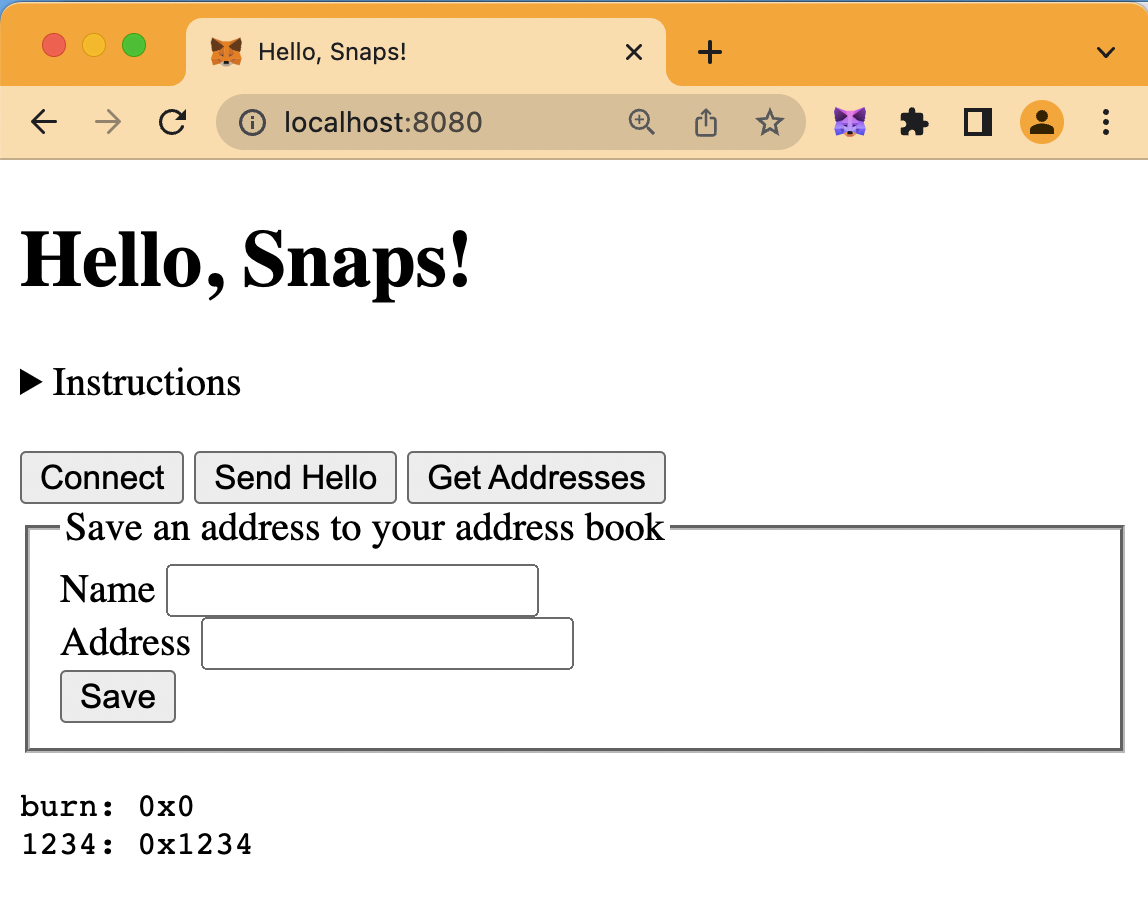
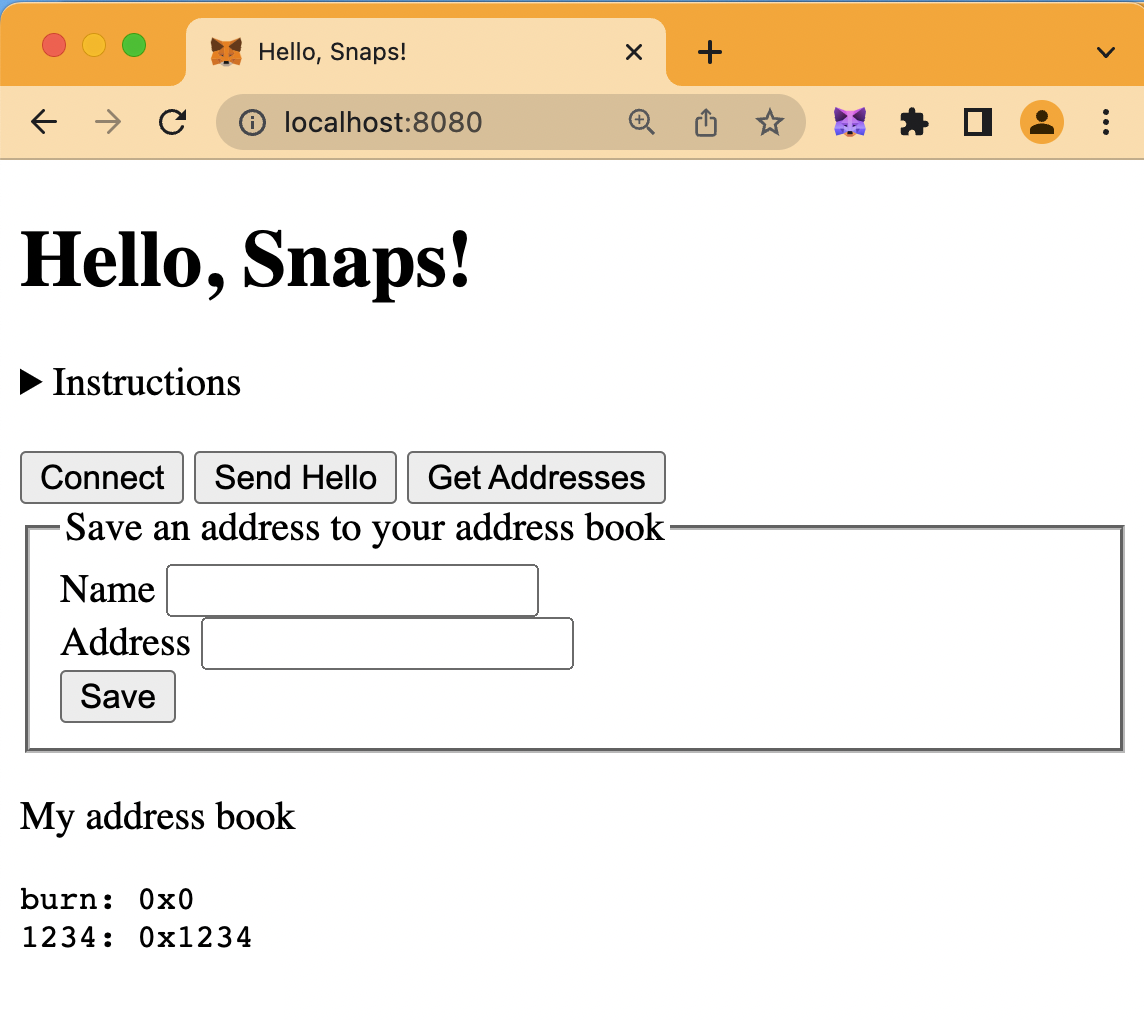
Better address display

diff --git a/index.html b/index.html
@@ -38,6 +38,11 @@
         <input type="submit" id="storeAddress" value="Save">
       </fieldset>
     </form>
+
+    <div>
+      <p>My address book</p>
+      <pre id="addressBook"></pre>
+    </div>
   </body>
 
   <script>
@@ -59,6 +64,7 @@
           wallet_snap: { [snapId]: {} },
         }]
       })
+      getAddresses()
     }
 
     // here we call the snap's "hello" method
@@ -89,11 +95,9 @@
         console.error(err)
         alert('Problem happened: ' + err.message || err)
       }
-      let container = document.createElement('pre'); 
-      container.textContent = ''+response.map(function(item){
+      document.getElementById('addressBook').textContent = ''+response.map(function(item){
           return `${item.name}: ${item.address}`; 
         }).join("\n"); 
-      document.body.append(container); 
     }
 
     const storeAddressForm = document.getElementById('storeAddress')
@@ -114,6 +118,7 @@
             addressToStore: address
           }]
         })
+        getAddresses()
       } catch (err) { 
         console.error(err)
         alert('Problem happened: ' + err.message || err)

diff --git a/src/index.js b/src/index.js
@@ -24,7 +24,7 @@ wallet.registerRpcMessageHandler(async (originString, requestObject) => {
         method: 'snap_manageState', 
         params: ['update', state], 
       }); 
-      return wallet.request({
+      /*return wallet.request({
         method: 'snap_confirm', 
         params: [
           {
@@ -37,7 +37,8 @@ wallet.registerRpcMessageHandler(async (originString, requestObject) => {
               `Addresses in book: ${state.book.length}`,  
           }, 
         ], 
-      }); 
+      });*/
+      return true; 
     case 'retrieveAddresses': 
       return state.book; 
     case 'hello':

diff --git a/README.md b/README.md
@@ -225,7 +225,7 @@ default:
 
 This code does a quick string conversion of the address book object (`map` each object in the array, then `join` the array) and outputs that in the `textAreaContent` field of the confirmation window. Build the Snap, connect to the Dapp, and click the "Send Hello" button to see the result: 
 
-<img src="tutorial-assets/tutorial-show-addresses.png" width="362" height="284" alt="Third Confirmation Attempt">
+<img src="tutorial-assets/tutorial-show-addresses.png" width="362" height="284" alt="See addresses in confirmation">
 
 Note that you did not need to add addresses to the address book again before showing the addresses that are stored. The addresses you added earlier were persisted even after updating the Snap! The data was fetched with this code which you added earlier in this tutorial: 
 
@@ -261,7 +261,19 @@ Add a button to `index.html` to retrieve addresses:
 <form id="storeAddress">
 ```
 
-And add the following code to the script section of `index.html` to retrieve and display the address book inside the Dapp: 
+And add a container before the closing `body` tag to display the address book: 
+
+```HTML
+  </form>
+
+  <div>
+    <p>My address book</p>
+    <pre id="addressBook"></pre>
+  </div>
+</body>
+```
+
+Add the following code to the script section of `index.html` to retrieve and display the address book inside the Dapp: 
 
 ```JavaScript
 const connectButton = document.querySelector('button.connect')
@@ -287,18 +299,85 @@ async function getAddresses () {
     console.error(err)
     alert('Problem happened: ' + err.message || err)
   }
-  let container = document.createElement('pre'); 
-  container.textContent = ''+response.map(function(item){
+  document.getElementById('addressBook').textContent = ''+response.map(function(item){
       return `${item.name}: ${item.address}`; 
     }).join("\n"); 
-  document.body.append(container); 
 }
 ```
 
 This is very similar to the other button handlers, but instead of just invoking a Snap request, it captures the response from that request and then injects it into the Dapp webpage. Build and run the Snap again, refresh the Dapp page, click "Connect" and click "Get Addresses." You will see a result like the following: 
 
-<img src="tutorial-assets/tutorial-inject-addresses.png" width="574" height="459" alt="Third Confirmation Attempt">
+<img src="tutorial-assets/tutorial-inject-addresses.png" width="572" height="510" alt="Injected addresses">
 
 You now have a very simple API for making an address book avialable to Dapps. While this is far from being an elegant approach to making an address book inside of MetaMask, you have the foundation for storing and retrieving data with a custom Snap. Read on for some ideas on how to make this more elegant and secure. 
 
-_Coming soon..._
+### Making the Dapp more responsive
+
+One way to make the Dapp more responsive is to load the address book as soon as you connect. Just add `getAddresses()` to the end of the "Connect" handler: 
+
+```JavaScript
+async function connect () {
+  await ethereum.request({
+    method: 'wallet_enable',
+    params: [{
+      wallet_snap: { [snapId]: {} },
+    }]
+  })
+  getAddresses()
+}
+```
+
+Another is to refresh the in-page address book each time you add a new address. Same approach, add `getAddresses()` right after the call to store an address in the form handler: 
+
+```JavaScript
+async function storeAddress (e) {
+  e.preventDefault() // to prevent default form behavior 
+
+  const name = document.getElementById('nameToStore').value
+  const address = document.getElementById('addressToStore').value
+
+  try { 
+    const response = await ethereum.request({
+      method: 'wallet_invokeSnap', 
+      params: [snapId, {
+        method: 'storeAddress',
+        nameToStore: name, 
+        addressToStore: address
+      }]
+    })
+    getAddresses()
+  } catch (err) { 
+    console.error(err)
+    alert('Problem happened: ' + err.message || err)
+  }
+}
+```
+
+This will update the in-page address book as soon as you Approve, Reject or dismiss the confirmation window that pops up. However, since you now have the address book being displayed and updated in real-time inside the Dapp, you could skip using the confirmation window entirely, like so: 
+
+```JavaScript
+switch (requestObject.method) {
+  case 'storeAddress': 
+    state.book.push({
+      name:requestObject.nameToStore,
+      address:requestObject.addressToStore
+    });
+    await wallet.request({
+      method: 'snap_manageState', 
+      params: ['update', state], 
+    }); 
+    return true; 
+  case 'retrieveAddresses': 
+```
+
+Now, the Snap will quietly update the state in the background, and you will immediately see the address book being updated in-page. Going forward, you could update the `storeAddress` code to make the Snap more useful, by: 
+
+* Checking that the input name and address conforms to some rules, such as "names and addresses can only contain letters and/or numbers" and "addresses must map to various protocol standards (depending on which blockchains you wish to support)." 
+* Check for duplicate names and addresses. Right now it's possible to add the same name multiple times, which is not very useful. One option would be to filter the existing data to check if the user is adding something that is already there, and either update it or return an error. 
+* Use a data type that is more useful than an array, to enable easier lookup, soring, etc. 
+
+Also, right now the Snap is not secure - any Dapp could add or change addresses, even without the user's permission! This could open the user up to attacks, tricking them into sending cryptocurrency to the wrong address. One way to fix this is to publish the address book manager to a specific domain, like "myaddressbook.xyz," and then check the `originString` in the `storeAddress` case to make sure that the request is coming from this domain. This way, as long as you retain control of domain, only your Dapp at that domain can make changes to the address book data. Another way to fix this is to require the confirmation window in the control flow for storing addresses, and only store the address if the user clicks approve. This way, the user will always get an explicit popup when an address update is attempted, will see the data that is being added or updated, and will have the option to explicitly allow or deny that change. Any Dapp could provide the functionality to add or update addresses, but the user would still be in control of storing data. 
+
+Lastly, the Dapp interface could be made more useful by allowing the user to update or remove individual addresses, sort addresses (with an update to the address book made each time the user changes the order), and interact with these address (like adding a send button to open the send flow in MetaMask for that address). With the native MetaMask APIs you can create a fully-featured address book Dapp for managing addresses and interacting with those addresses, even displaying information for each address such as balance or last transaction, in a way that preserves the privacy and anonymity of the end user (because the stored data is visible only to the user's device, not to you or MetaMask, and the user has full control of when and how they store and view that data). 
+
+_An example Snap and Dapp with these improvements will be made available soon._
